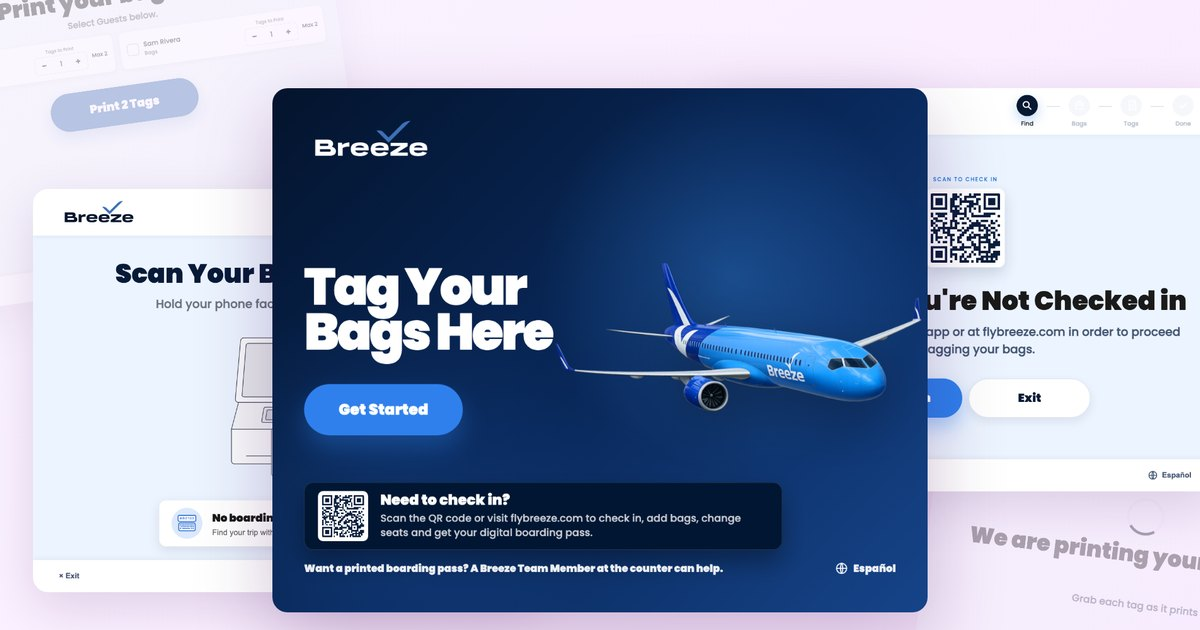
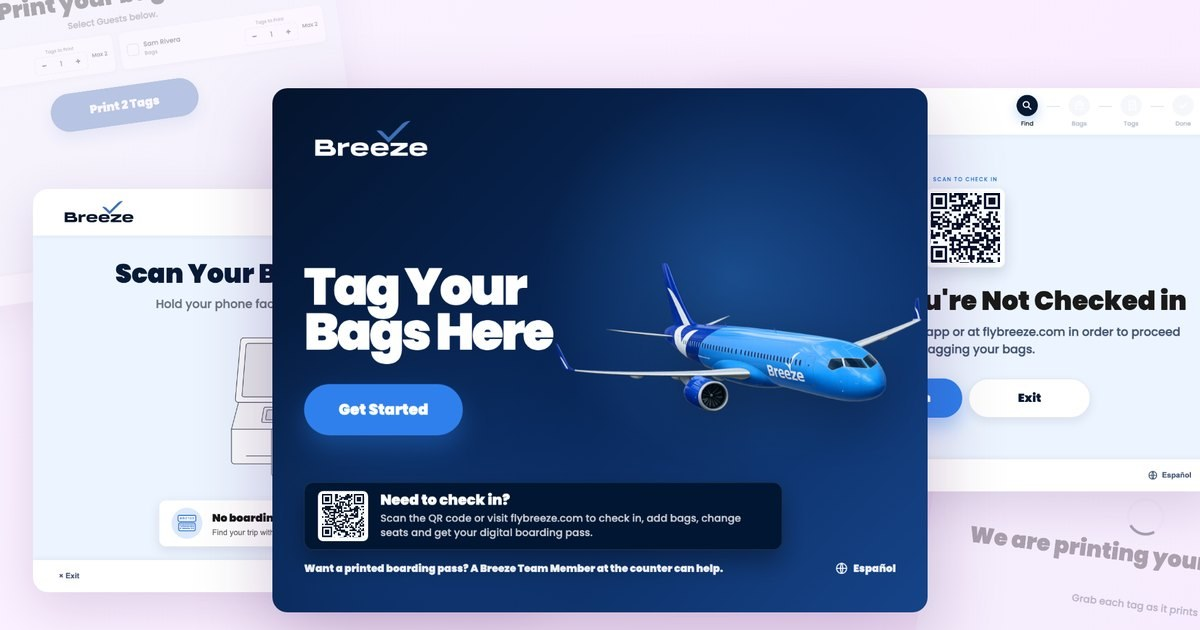
Airport Kiosks: retell as the crowded-lobby story; fake QR codes
New title: Room at the Kiosks, a Line at the Counter. Story runs from the
stopwatch day, through the screens changed to keep guests out of the counter
line, to the August floor day (6 parties waiting, 3 of 8 kiosks in use).
Corrects the QR live date (Aug 4) and the unit count (8 in Las Vegas).
New QR and error before/after images, stacked phone versions, and every
real QR swapped for a non-scanning placeholder (cover, card, share image).

Changed region(s): [[0.7708, 0.3016, 0.8325, 0.4222], [0.2467, 0.7841, 0.3083, 0.8746]]

diff --git a/case-studies/airport-kiosks.html b/case-studies/airport-kiosks.html
@@ -4,10 +4,10 @@
     <meta charset="UTF-8">
     <meta name="viewport" content="width=device-width, initial-scale=1.0">
     <title>Case Study: Breeze Common-Use Airport Kiosks</title>
-    <meta name="description" content="Case study: launching Breeze on shared airport kiosks, timing it on the floor, and reporting what it actually does. The saving lands on the agent, not the guest.">
+    <meta name="description" content="Case study: Breeze&#x27;s first airport kiosk, built for the crowded lobby. A stopwatch, screens redesigned to keep guests out of the counter line, and what the lobby showed next.">
     <meta property="og:type" content="article">
-    <meta property="og:title" content="Breeze&#x27;s first airport kiosk, and what it actually does">
-    <meta property="og:description" content="Case study: launching Breeze on shared airport kiosks, timing it on the floor, and reporting what it actually does. The saving lands on the agent, not the guest.">
+    <meta property="og:title" content="Room at the kiosks, a line at the counter">
+    <meta property="og:description" content="Case study: Breeze&#x27;s first airport kiosk, built for the crowded lobby. A stopwatch, screens redesigned to keep guests out of the counter line, and what the lobby showed next.">
     <meta property="og:image" content="https://zhunterux.netlify.app/assets/images/og/airport-kiosks.jpg">
     <meta property="og:url" content="https://zhunterux.netlify.app/case-studies/airport-kiosks.html">
     <meta name="twitter:image" content="https://zhunterux.netlify.app/assets/images/og/airport-kiosks.jpg">
@@ -57,20 +57,21 @@
     </header>
 
     <main>
-      <img src="../assets/images/kiosk/cover.webp?v=3" class="case-header-img" alt="Breeze kiosk screens: the Tag Your Bags Here welcome screen in front of the scan and not-checked-in screens">
+      <img src="../assets/images/kiosk/cover.webp?v=4" class="case-header-img" alt="Breeze kiosk screens: the Tag Your Bags Here welcome screen in front of the scan and not-checked-in screens">
         <section class="basic-section">
             <div class="case-titles">
               <a href="../index.html#projects-section" class="back-link">
                 <span aria-hidden="true">←</span> Back to projects
               </a>
-              <h1 class="hero-primary">Breeze's First Airport Kiosk, and What It Actually Does</h1>
-              <h2 class="header2-accent">A new self-service channel on hardware we don't own</h2>
+              <h1 class="hero-primary">Room at the Kiosks, a Line at the Counter</h1>
+              <h2 class="header2-accent">Breeze's first airport kiosk, built for the crowded lobby</h2>
             </div>
             <div class="summary-duties">
               <div class="summary">
                 <h2 class="header1-primary">Executive Summary</h2>
-                <p class="body-primary">In July 2026 Breeze went live on shared, airport-owned kiosks for the first time, in Las Vegas. Charleston followed in August. I own the live screens: the errors, the copy in English and Spanish, and the scan animation.</p>
-                <p class="body-primary">I also went to the airport and timed it. <span class="highlight-text combo-pink-light">The kiosk proved the technology. It didn't prove the business case yet</span>, and the field research is what told us how to fix the scope.</p>
+                <p class="body-primary">In July 2026 Breeze went live on shared airport kiosks for the first time, in Las Vegas. Charleston followed in August. The goal is the crowded lobby: at peak, the line moves only as fast as agents can take bags.</p>
+                <p class="body-primary">Guests loved it. I wanted to know where the time actually went, so I took a stopwatch to the lobby. Then I redesigned the screens that sent guests back to the counter: check-in, the errors, and the scan step.</p>
+                <p class="body-primary">The day after those changes shipped, I went back. <span class="highlight-text combo-pink-light">Most of the kiosks were free while the counter was busy</span>, which points to the next opportunity: helping guests find them.</p>
               </div>
               <hr class="vertical-hr"/>
               <div class="duties-list">
@@ -103,23 +104,29 @@
           <section class="basic-section">
             <div class="text-block">
               <h2 class="header1-primary">The Setup</h2>
-              <h3 class="header2-accent">Somebody Else's Machine</h3>
-              <p class="body-primary">Common-use kiosks belong to the airport. A vendor runs the software, and we edit our screens through their CMS. There's no release cycle, so a change reaches guests the same day. So does a mistake.</p>
+              <h3 class="header2-accent">Built for the Busy Hours</h3>
+              <p class="body-primary">At peak, agents are the fixed resource. The lobby clears as fast as they can take bags, so the kiosk's job is to give agents some of that time back.</p>
+              <p class="body-primary">It runs on somebody else's machine. Common-use kiosks belong to the airport, a vendor runs the software, and we edit our screens through their CMS. There's no release cycle, so a change reaches guests the same day. So does a mistake.</p>
               <p class="body-primary">Version one did one thing: print bag tags for guests who had already checked in.</p>
             </div>
             <figure>
                 <figcaption class="image-caption caption-spaced">
                     The live flow in Las Vegas
                 </figcaption>
-                <div class="image-band"><img loading="lazy" decoding="async" src="../assets/images/kiosk/flow.webp"
-                     alt="Four kiosk screens: a Tag Your Bags Here welcome screen with a QR code for checking in, a scan your boarding pass screen, a screen for picking how many bag tags to print for each guest, and a printing screen."></div>
+                <div class="image-band"><picture><source media="(max-width: 600px)" srcset="../assets/images/kiosk/flow-phone.webp"><img loading="lazy" decoding="async" src="../assets/images/kiosk/flow.webp"
+                     alt="Four kiosk screens: a Tag Your Bags Here welcome screen with a QR code for checking in, a scan your boarding pass screen, a screen for picking how many bag tags to print for each guest, and a printing screen."></picture></div>
             </figure>
           </section>
           <section class="basic-section">
             <div class="text-block">
                 <h2 class="header1-primary">Going to the Airport</h2>
-                <h3 class="header2-accent">Timing It on the Floor</h3>
-                <p class="body-primary">Three days after launch I spent a day in the Las Vegas lobby with a stopwatch: 45 timed transactions plus twelve observation notes, counter only against kiosk then counter. A second floor day in August added three observers and 51 full journeys.</p>
+                <h3 class="header2-accent">Where the Time Went</h3>
+                <p class="body-primary">Three days after launch, a guest at the kiosk told us:</p>
+                <figure class="research-quote">
+                    <span class="research-quote-mark" aria-hidden="true">&ldquo;</span>
+                    <blockquote class="research-quote-text">I love these, this saved so much time.</blockquote>
+                </figure>
+                <p class="body-primary">I wanted to see it on the clock. I spent a day in the Las Vegas lobby with a stopwatch and timed 45 transactions, some at the counter only, some at the kiosk and then the counter.</p>
             </div>
             <figure>
                 <figcaption class="image-caption caption-spaced">
@@ -159,64 +166,70 @@
                 </div>
             </figure>
             <div class="text-block">
-                <h3 class="header2-accent">The Saving Landed on the Agent, Not the Guest</h3>
-                <p class="body-primary">A kiosk guest prints a tag and then still lines up for an agent to take the bag. Of the ten steps in a counter transaction, the kiosk took one, printing the tag, and it's the cheapest one. For the guest, the whole trip took about the same time.</p>
-                <p class="body-primary">Guests liked it anyway.</p>
-                <figure class="research-quote">
-                    <span class="research-quote-mark" aria-hidden="true">&ldquo;</span>
-                    <blockquote class="research-quote-text">I love these, this saved so much time.</blockquote>
-                </figure>
-                <p class="body-primary">That's real value, and it isn't a time saving. Self-service feels faster than standing in line. I kept the two claims apart.</p>
+                <p class="body-primary">The agent's part got shorter. The guest's whole trip took about the same time. A kiosk guest prints a tag and then still lines up for an agent to take the bag. Of the ten steps in a counter transaction, the kiosk handles one: printing the tag.</p>
             </div>
             <div class="text-block">
-                <h3 class="header2-accent">What I Would and Wouldn't Claim</h3>
+                <h3 class="header2-accent">One Line Became Three</h3>
+                <p class="body-primary">Before the kiosk there was one line. Now there were three: the counter, the kiosk, and bag drop, which grew at peak. A guest who got stuck at the kiosk ended up in the counter line anyway. The most common reason was that they hadn't checked in yet, and version one couldn't help with that.</p>
+            </div>
+            <div class="text-block">
+                <h3 class="header2-accent">What We Learned</h3>
             </div>
             <table class="comparison-table comparison-table--text">
                 <thead>
                   <tr>
-                    <th class="header3-primary">Claim</th>
-                    <th class="header3-primary" style="color: var(--text-light)">Call</th>
-                    <th class="header3-primary" style="color: var(--text-light)">Why</th>
+                    <th class="header3-primary">Measure</th>
+                    <th class="header3-primary" style="color: var(--text-light)">What We Saw</th>
+                    <th class="header3-primary" style="color: var(--text-light)">Why It Matters</th>
                   </tr>
                 </thead>
                 <tbody>
                   <tr>
-                    <th class="header3-primary trh combo-pink">Saves agent time</th>
-                    <td class="body-primary combo-pink-light" data-label="Call">Yes, up to 0:42</td>
-                    <td class="body-primary combo-pink-light td-right" data-label="Why">An upper bound. Kiosk guests were already checked in and likely had bags paid for, so the gap isn't all the kiosk</td>
+                    <th class="header3-primary trh combo-pink">The agent's part</th>
+                    <td class="body-primary combo-pink-light" data-label="What we saw">Shorter, by up to 0:42</td>
+                    <td class="body-primary combo-pink-light td-right" data-label="Why it matters">An upper bound. Kiosk guests had already checked in and likely paid for bags, so not all of the gap is the kiosk</td>
                   </tr>
                   <tr>
-                    <th class="header3-primary trh combo-pink">Saves guests time</th>
-                    <td class="body-primary combo-pink-light" data-label="Call">No</td>
-                    <td class="body-primary combo-pink-light td-right" data-label="Why">1:52 against 1:49. A wash for success, worse for anyone who failed at the kiosk and lined up twice</td>
+                    <th class="header3-primary trh combo-pink">The guest's whole trip</th>
+                    <td class="body-primary combo-pink-light" data-label="What we saw">About the same</td>
+                    <td class="body-primary combo-pink-light td-right" data-label="Why it matters">1:52 against 1:49 for a guest who got through the kiosk</td>
                   </tr>
                   <tr>
-                    <th class="header3-primary trh combo-pink">Makes the lobby predictable</th>
-                    <td class="body-primary combo-pink-light" data-label="Call">Dropped</td>
-                    <td class="body-primary combo-pink-light td-right" data-label="Why">Too few observations to call it a rate</td>
+                    <th class="header3-primary trh combo-pink">How guests felt</th>
+                    <td class="body-primary combo-pink-light" data-label="What we saw">They liked it</td>
+                    <td class="body-primary combo-pink-light td-right" data-label="Why it matters">Self-service feels faster than waiting in line. That's real, and it's a different thing from saving time</td>
                   </tr>
                 </tbody>
               </table>
-            <div class="text-block">
-                <p class="body-primary">The biggest failure was guests who hadn't checked in, which v1 couldn't fix. Product and I wrote the trial read together, and the fix was a scope change, not a rebuild: <span class="highlight-text combo-pink-light">a QR code on the kiosk that sends guests to check in on their own phone.</span> That took check-in off the agent's clock without building check-in on the kiosk. It's been live since July 30.</p>
-            </div>
           </section>
           <section class="basic-section">
             <div class="text-block">
-                <h2 class="header1-primary">Fixing the Live Screens</h2>
-                <h3 class="header2-accent">Errors That Tell You What to Do Next</h3>
-                <p class="body-primary">I mapped every error the kiosk could actually fire and cut the set to the 16 a guest can reach. Each one got a redesign and copy that names the next step. A language pass fixed 54 Spanish strings: machine translation errors, formal and informal drift, and text that was never translated.</p>
+                <h2 class="header1-primary">What I Changed</h2>
+                <p class="body-primary">Every change went after a way a guest ended up back at the counter. The first round went live in Las Vegas on August 4.</p>
+                <h3 class="header2-accent">Check In on Your Own Phone</h3>
+                <p class="body-primary">The biggest snag was guests who hadn't checked in. Product and I looked at building check-in into the kiosk and chose something smaller: a QR code that opens check-in on the guest's own phone. It takes check-in off the agent's plate without a big kiosk build, and it tells us whether a full kiosk check-in is ever needed.</p>
             </div>
             <figure>
                 <figcaption class="image-caption caption-spaced">
-                    Two of the 16 redesigned errors
+                    The QR on the welcome screen, and again when you're not checked in
                 </figcaption>
-                <div class="image-band"><img loading="lazy" decoding="async" src="../assets/images/kiosk/errors.webp"
-                     alt="Two kiosk error screens. You're Here Nice and Early, explaining tags print 2.5 hours before departure. Looks Like You're Not Checked In, with a QR code to check in on the Breeze app."></div>
+                <div class="image-band"><picture><source media="(max-width: 600px)" srcset="../assets/images/kiosk/qr-checkin-phone.webp"><img loading="lazy" decoding="async" src="../assets/images/kiosk/qr-checkin.webp"
+                     alt="Two live kiosk screens. The welcome screen, Tag Your Bags Here, with a box reading Need to check in? next to a QR code. The Looks Like You're Not Checked In screen, with a QR code labeled Scan to check in, plus Try Again and Exit."></picture></div>
+            </figure>
+            <div class="text-block">
+                <h3 class="header2-accent">Errors That Tell You What to Do Next</h3>
+                <p class="body-primary">I mapped every error the kiosk could fire and narrowed it to the 16 a guest can actually reach. Each one got a redesign and copy that names the next step. A language pass fixed 54 Spanish strings: machine translation slips, formal and informal mixed together, and text that was never translated.</p>
+            </div>
+            <figure>
+                <figcaption class="image-caption caption-spaced">
+                    One of the 16, before and after
+                </figcaption>
+                <div class="image-band"><picture><source media="(max-width: 600px)" srcset="../assets/images/kiosk/error-before-after-phone.webp"><img loading="lazy" decoding="async" src="../assets/images/kiosk/error-before-after.webp"
+                     alt="The same kiosk error before and after. Before: a red alarm icon, the title Trip not found, and a single Try Again button. After: an outline warning icon, the title We Couldn't Find That Trip, and Try Again next to Exit."></picture></div>
             </figure>
             <div class="text-block">
                 <h3 class="header2-accent">Teaching a Gesture the Machine Can Actually Do</h3>
-                <p class="body-primary">Scan is where guests stalled. The old screen showed a phone held up to a reader the Las Vegas machine doesn't have. People did what it said, nothing happened, and they gave up and joined the counter line.</p>
+                <p class="body-primary">Scan is where guests stalled. The old screen showed a phone held up to a reader the Las Vegas machine doesn't have. People did what it said, nothing happened, and some headed to the counter instead.</p>
                 <p class="body-primary">I modeled a new animation on the real unit, where the reader hides under the screen. Then Charleston launched on different hardware, a flat bed you look straight down on. I'd recommended one animation for both. <span class="highlight-text combo-pink-light">Side by side, that would have taught half our guests the wrong move</span>, so I reversed myself and drew Charleston its own.</p>
             </div>
             <figure>
@@ -243,23 +256,57 @@
                         </div>
                     </div>
                 </div>
-                <div class="image-band static-only"><img loading="lazy" decoding="async" src="../assets/images/kiosk/scan.webp"
-                     alt="Two scan screens. Las Vegas shows a phone sliding under the lip of the screen to a hidden reader. Charleston shows a pass placed face down on a flat scanning bed, with the caption Place your phone or paper pass face down on the scanner."></div>
+                <div class="image-band static-only"><picture><source media="(max-width: 600px)" srcset="../assets/images/kiosk/scan-phone.webp"><img loading="lazy" decoding="async" src="../assets/images/kiosk/scan.webp"
+                     alt="Two scan screens. Las Vegas shows a phone sliding under the lip of the screen to a hidden reader. Charleston shows a pass placed face down on a flat scanning bed, with the caption Place your phone or paper pass face down on the scanner."></picture></div>
             </figure>
             <div class="text-block">
-                <p class="body-primary">I built both as code-drawn SVG, with AI helping me write it, and moved them into the CMS media library. That turned a second station's art into an upload instead of a vendor template change.</p>
-                <p class="body-primary">On the floor in Las Vegas, scan confusion dropped and nobody pressed their phone flat against the screen anymore. That's observed, not timed. Nobody has clocked a scan before and after yet.</p>
+                <p class="body-primary">Each station's art is now a file we upload, not a vendor template change, so the next airport's hardware can get its own lesson.</p>
+            </div>
+          </section>
+          <section class="basic-section">
+            <div class="text-block">
+                <h2 class="header1-primary">Back on the Floor</h2>
+                <h3 class="header2-accent">The Day After</h3>
+                <p class="body-primary">On August 5, the day after the first changes shipped, I went back with two more observers. We tracked 51 full journeys.</p>
+                <p class="body-primary">Scan got easier. Confusion at that step dropped, and nobody pressed a phone flat against the screen anymore. That's observed, not timed.</p>
+            </div>
+            <figure>
+                <figcaption class="image-caption caption-spaced">
+                    The same morning, at the busiest point
+                </figcaption>
+                <div class="image-band flow-band">
+                    <div class="cards-3" style="flex-direction: row; flex-wrap: wrap; max-width: 720px; margin: 0 auto;">
+                        <div class="card" style="flex: 1 1 240px;">
+                            <h2 class="metric-lrg statichighlight-pink">6 parties</h2>
+                            <p class="body-primary">waiting at the counter</p>
+                        </div>
+                        <div class="card" style="flex: 1 1 240px;">
+                            <h2 class="metric-lrg statichighlight-pink">3 of 8</h2>
+                            <p class="body-primary">kiosks in use. None ever had a line.</p>
+                        </div>
+                    </div>
+                </div>
+            </figure>
+            <div class="text-block">
+                <h3 class="header2-accent">The Next Opportunity Is the Room</h3>
+                <p class="body-primary"><span class="highlight-text combo-pink-light">The kiosks had room to spare. The counter was where people waited.</span> Guests told us why.</p>
+                <figure class="research-quote">
+                    <span class="research-quote-mark" aria-hidden="true">&ldquo;</span>
+                    <blockquote class="research-quote-text">Thought kiosks were for something else.</blockquote>
+                </figure>
+                <p class="body-primary">Three of the 15 guests we talked to hadn't seen the kiosks or weren't sure what they were for. An observer also saw agents reprinting some kiosk tags. That's worth a closer look, since printing the tag is the step the kiosk takes off their plate.</p>
+                <p class="body-primary">The lobby held up: 50 of 51 journeys finished inside the 15-minute target. So we have room to work with.</p>
             </div>
           </section>
           <section class="basic-section">
             <div class="text-block">
                 <h2 class="header1-primary">Where It Stands</h2>
                 <ul class="list-spaced">
-                    <li class="body-primary">Live on 8 units in Las Vegas and in Charleston since August 26</li>
-                    <li class="body-primary">The on-screen QR is live. A printed lobby sign is waiting on airport approval</li>
-                    <li class="body-primary">Las Vegas is close to a best case for counter layout, so the next city will likely have less margin than these numbers suggest</li>
+                    <li class="body-primary">Live on 8 units in Las Vegas since July 21. Charleston followed in August with its own scan art</li>
+                    <li class="body-primary">The next opportunity is routing: helping guests see the kiosks and know what they're for</li>
+                    <li class="body-primary">Las Vegas is close to a best case for counter layout, so the next city will have less room than these numbers suggest</li>
                 </ul>
-                <p class="body-primary">The question for the next stage is the same one the floor day asked: how many agent minutes does this take off a guest? That number decides whether the program grows.</p>
+                <p class="body-primary">The number that decides how far this grows is agent minutes per guest.</p>
             </div>
           </section>
           <section class="next-case-section">

diff --git a/index.html b/index.html
@@ -117,7 +117,7 @@
                         </span>
                     </a>
                     <a href="case-studies/airport-kiosks.html" class="case-study-card case-study-card-pink">
-                        <span class="case-study-card-media" style="background-image: url(assets/images/kiosk/card.webp?v=2);"></span>
+                        <span class="case-study-card-media" style="background-image: url(assets/images/kiosk/card.webp?v=3);"></span>
                         <span class="case-study-card-copy">
                             <span class="case-study-card-meta caption-spaced">Airport self-service</span>
                             <span class="case-study-card-title header3-primary">Launching Breeze on shared airport kiosks.</span>

diff --git a/case-studies/volunteer-bidding.html b/case-studies/volunteer-bidding.html
@@ -462,7 +462,7 @@
             <a href="airport-kiosks.html" class="next-case-link">
               <div class="next-case-text">
                 <span class="next-case-label caption-spaced">Next case study</span>
-                <span class="next-case-title header3-primary">Breeze's First Airport Kiosk, and What It Actually Does</span>
+                <span class="next-case-title header3-primary">Room at the Kiosks, a Line at the Counter</span>
               </div>
               <span class="btn-icon" aria-hidden="true"><svg viewBox="0 0 16 16"><path d="M3 8h10M9 4l4 4-4 4"/></svg></span>
             </a>
